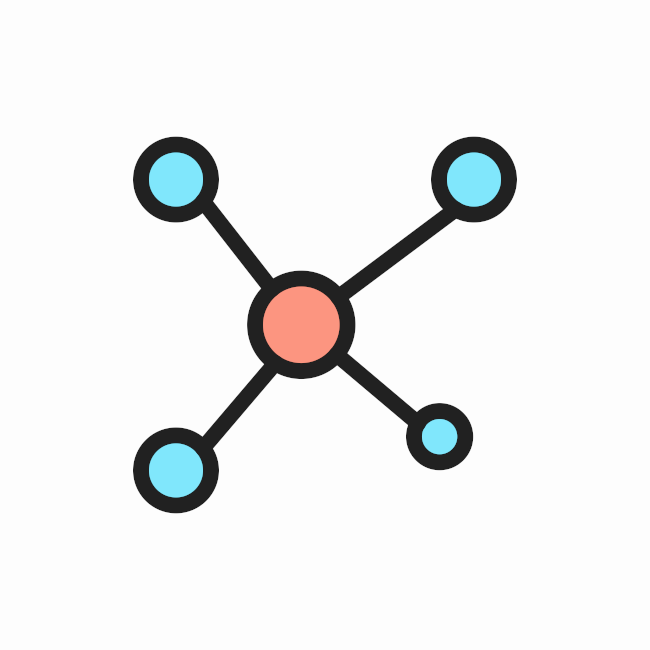
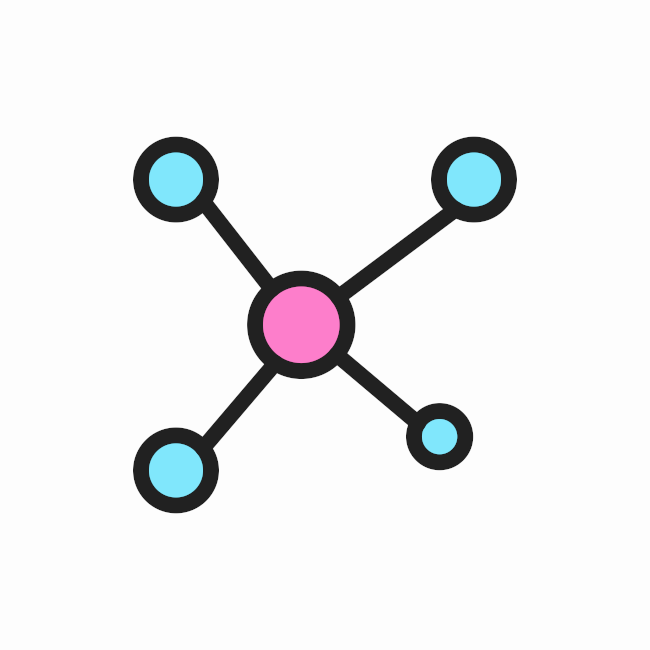
first oof 2022

Changed region(s): [[0.4, 0.4308, 0.5231, 0.5538]]

diff --git a/app/assets/stylesheets/nd_footer.css.scss b/app/assets/stylesheets/nd_footer.css.scss
@@ -1,6 +1,6 @@
-$main: #fc9580; /* emerald */
-$main-dark: #dd8270;
-$main-light: #fff2ef;
+$main: #FD7ECB; /* emerald */
+$main-dark: #9E4F7F;
+$main-light: #FFEFF9;
 
 $secondary: #80e7fc; /* carrot */
 $secondary-dark: #70cadd;

diff --git a/app/assets/stylesheets/nd_header.css.scss b/app/assets/stylesheets/nd_header.css.scss
@@ -1,6 +1,6 @@
-$main: #fc9580; /* emerald */
-$main-dark: #dd8270;
-$main-light: #fff2ef;
+$main: #FD7ECB; /* emerald */
+$main-dark: #9E4F7F;
+$main-light: #FFEFF9;
 
 $secondary: #80e7fc; /* carrot */
 $secondary-dark: #70cadd;
